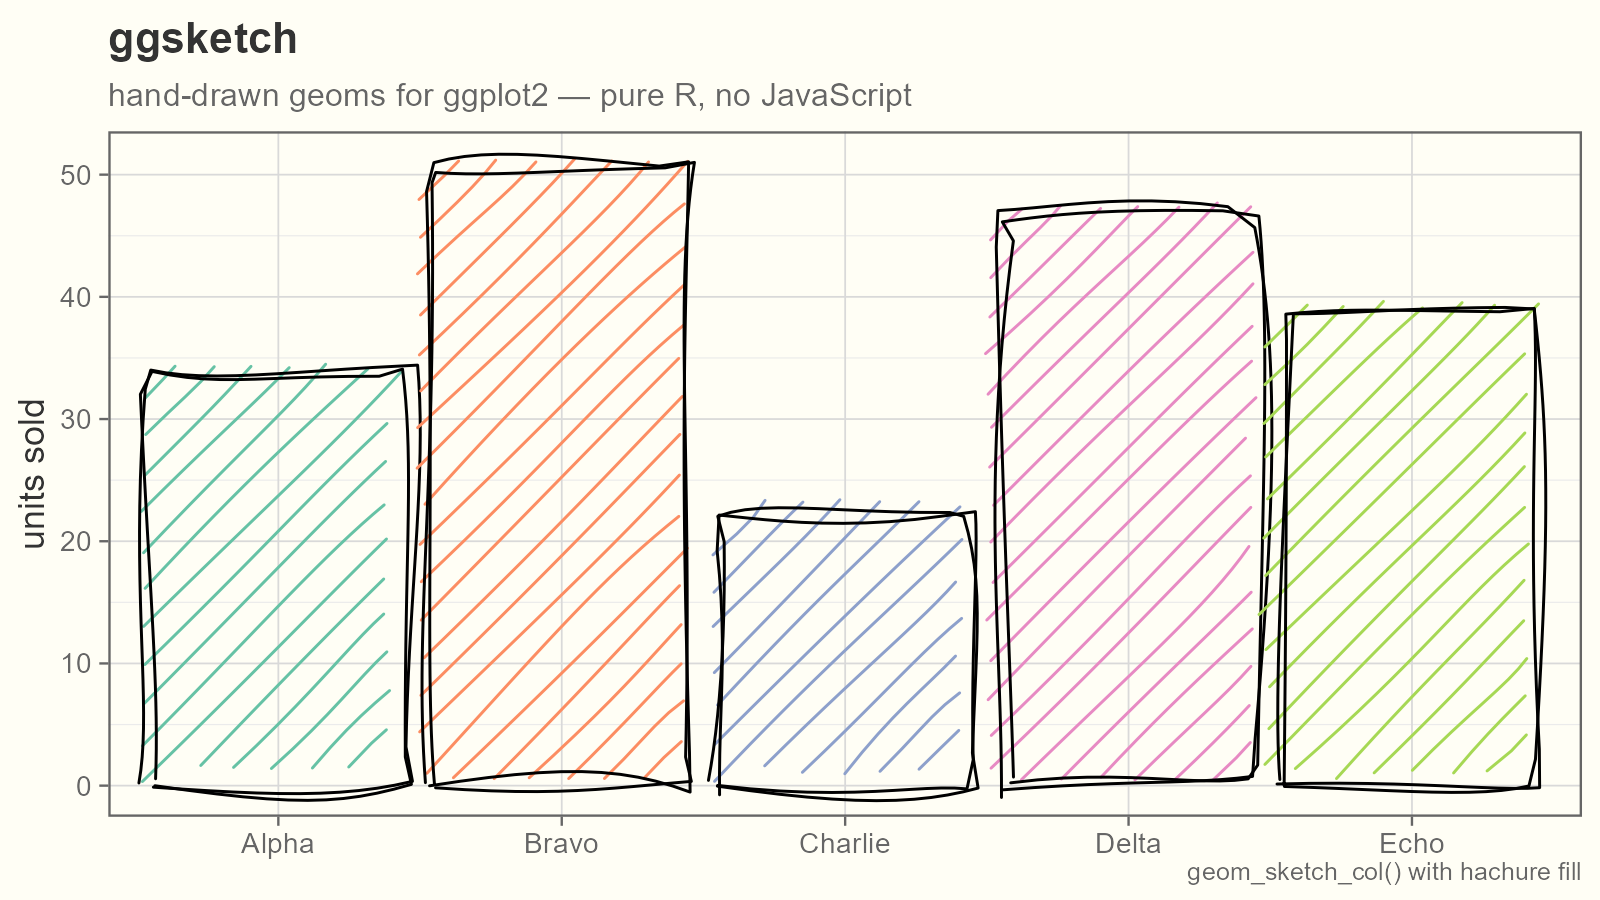
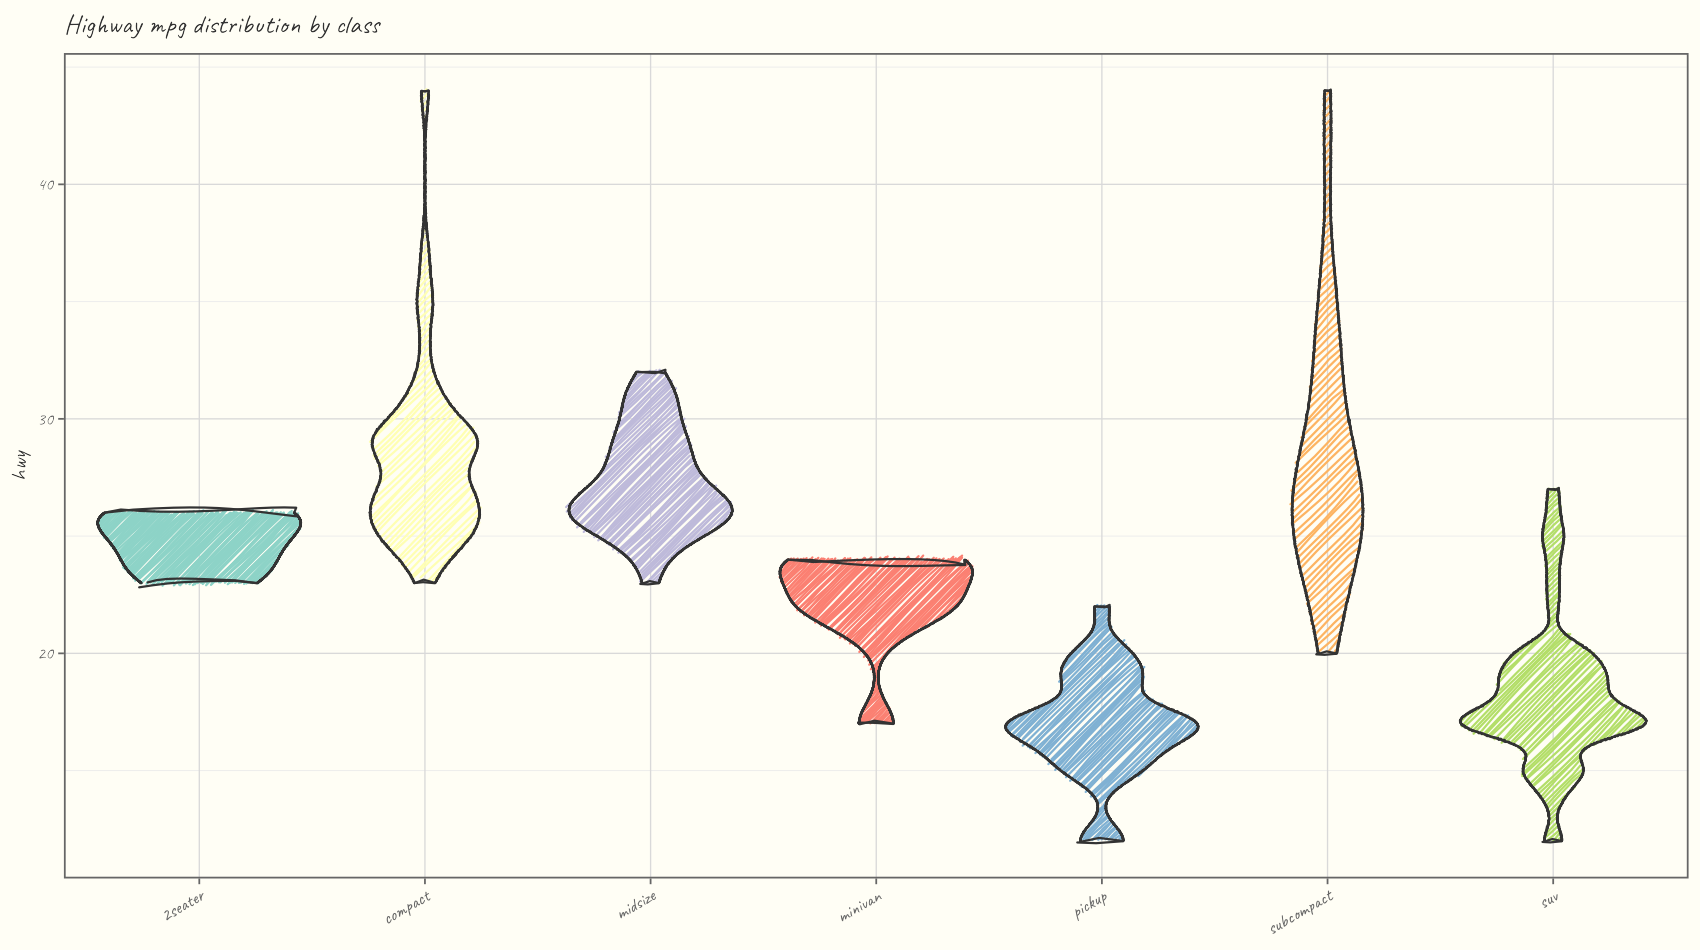
README: new violin hero with handwriting title; swap showcase violin for densities
Replaces the old bar-chart hero (stale font) with a colourful geom_sketch_violin
hero rendered with the registered Caveat face. Reshuffles the showcase pair to
overlapping densities so the violin isn't duplicated.

diff --git a/README.md b/README.md
@@ -10,7 +10,7 @@
 
 <p align="center">
 
-<img src="man/figures/README-hero.png" alt="A sketchy hachure-filled bar chart titled ggsketch" width="80%"/>
+<img src="man/figures/README-hero.png" alt="Sketchy hachure-filled violin plots of highway mpg by vehicle class, with a handwriting-font title" width="90%"/>
 
 </p>
 
@@ -59,22 +59,23 @@ Every randomized routine is seeded, so a given `seed` always produces the same w
 A scatter with a hand-drawn frame (`theme_sketch(rough_frame = TRUE)`), the sketch colour palette, and a roughened linear fit:
 
 <p align="center">
+
 <img src="man/figures/README-showcase.png" alt="Sketchy scatter of fuel economy with hand-drawn gridlines, roughened points, and linear fits coloured by drivetrain" width="100%"/>
+
 </p>
 
-The same look across distributions and fills — hachure-filled violins and the new `"scribble"` fill, both on the sketch palette:
+Overlapping densities and the new `"scribble"` fill, both on the sketch palette:
 
-<table>
-<tr>
-<td width="50%"><img src="man/figures/README-violin.png" alt="Hachure-filled sketch violin plots of highway mpg by vehicle class" width="100%"/></td>
-<td width="50%"><img src="man/figures/README-bars.png" alt="Scribble-filled sketch bar chart" width="100%"/></td>
-</tr>
-</table>
+|  |  |
+|----|----|
+| ![Overlapping sketch density curves of highway mpg by drivetrain](man/figures/README-density.png){alt="Overlapping sketch density curves of highway mpg by drivetrain"} | ![Scribble-filled sketch bar chart](man/figures/README-bars.png){alt="Scribble-filled sketch bar chart"} |
 
 A filled area and line over time, again with a roughened frame:
 
 <p align="center">
+
 <img src="man/figures/README-area.png" alt="Sketchy hachure-filled area and line chart of US unemployment over time" width="100%"/>
+
 </p>
 
 ## The geoms